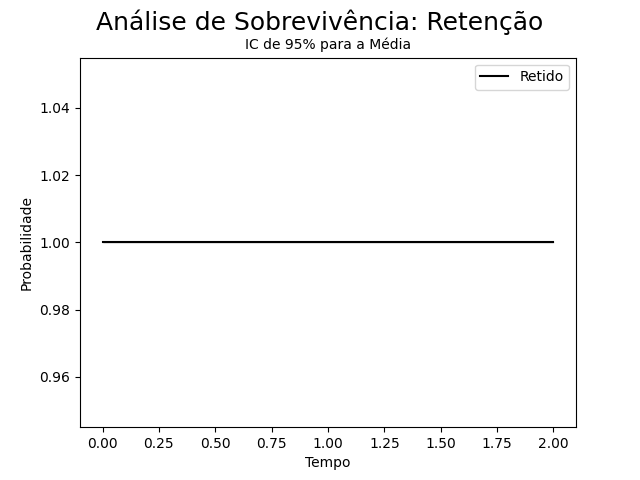
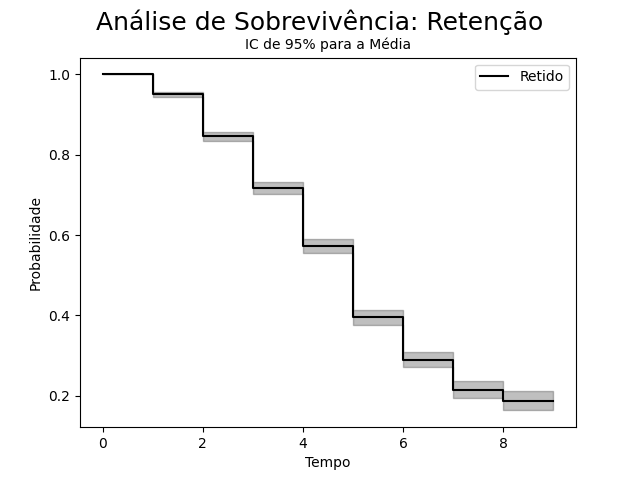
Testes

diff --git a/tests/simulationTest.py b/tests/simulationTest.py
@@ -4,7 +4,7 @@ from lifelines import KaplanMeierFitter
 from Student import Student
 
 
-def sobrevivencia(time, event_observed, label, title):
+def sobrevivencia(time, event_observed, label, color, title):
     kmf = KaplanMeierFitter()
 
     linestyles = ['-', '--', '-.', ':']
@@ -33,18 +33,16 @@ def Simu(quantAlunos, matriz):
     g = 0
     r = 0
     t = 0
-    time = []
-    event_g = []
-    event_e = []
     # anos = 12  # ou a.nb_state dentro do for
-    times = np.array([])
+    time = np.array([])
     tempo_ate_retido = []
     tempo_ate_trancado = []
     tempo_ate_evadido = []
     tempo_ate_graduado = []
+    event_observedE = np.array([])
+    event_observedG = np.array([])
     event_observedT = np.array([])
     event_observedR = np.array([])
-
 
     for i in range(quantAlunos):
         a = Student(i, matriz)
@@ -53,23 +51,23 @@ def Simu(quantAlunos, matriz):
         anos = a.nb_state
 
         tempo = np.arange(0, anos, 1)
-        times = np.concatenate((times, tempo))
+        time = np.concatenate((time, tempo))
 
+        estados = np.zeros((anos,), dtype=int)
         if 'E' in arr:
             e += 1  # quantidade para probabilidade
-            tempo_ate_evadido.append(len(arr) - 1)
-            time.append(len(arr) - 1)
-            event_e.append(1)
-        else:
-            event_e.append(0)
+            k = arr.index("E")
+            tempo_ate_evadido.append(k)
+            estados[k] = 1
+        event_observedE = np.concatenate((event_observedE, estados))
 
+        estados = np.zeros((anos,), dtype=int)
         if 'G' in arr:
             g += 1  # quantidade para probabilidade
-            tempo_ate_graduado.append(len(arr) - 1)
-            time.append(len(arr) - 1)
-            event_g.append(1)
-        else:
-            event_g.append(0)
+            k = arr.index("G")
+            tempo_ate_graduado.append(k)
+            estados[k] = 1
+        event_observedG = np.concatenate((event_observedG, estados))
 
         # Trancado
         estados = np.zeros((anos,), dtype=int)
@@ -112,7 +110,10 @@ def Simu(quantAlunos, matriz):
     prob_and_temp("Evadido", e, tempo_ate_evadido, quantAlunos)
     prob_and_temp("Graduado", g, tempo_ate_graduado, quantAlunos)
 
-    return time, times, event_e, event_g, event_observedR, event_observedT
+    # print(g)
+    # print(tempo_ate_graduado)
+
+    return time, event_observedE, event_observedG, event_observedR, event_observedT
 
 
 
@@ -121,46 +122,67 @@ quantAlunos = 1000
 
 # # Simulação por Gênero
 # print("\nFeminino")
-# timeF, timesF, event_observedEF, event_observedGF, event_observedRF, event_observedTF = Simu(quantAlunos, 'matrix/matrixF.csv')
+# timeF, event_observedEF, event_observedGF, event_observedRF, event_observedTF = Simu(quantAlunos, 'matrix/matrixF.csv')
 # print("\nMasculino - 25%")
-# timeM, timesM, event_observedEM, event_observedGM, event_observedRM, event_observedTM = Simu(quantAlunos, 'matrix/matrixM.csv')
-# print("\nMasculino - 50%")
-# timeM50, timesM50, event_observedEM50, event_observedGM50, event_observedRM50, event_observedTM50 = Simu(quantAlunos, 'matrix/matrixM50.csv')
+# timeM, event_observedEM, event_observedGM, event_observedRM, event_observedTM = Simu(quantAlunos, 'matrix/matrixM.csv')
+# # print("\nMasculino - 50%")
+# # timeM50, event_observedEM50, event_observedGM50, event_observedRM50, event_observedTM50 = Simu(quantAlunos, 'matrix/matrixM50.csv')
 #
-# times = [timeF, timeM, timeM50]
-# eventsE = [event_observedEF, event_observedEM, event_observedEM50]
-# eventsG = [event_observedGF, event_observedGM, event_observedGM50]
-# labels = ["Feminino", "Masculino - 25%", "Masculino - 50%"]
+# times = [timeF, timeM]
+# eventsE = [event_observedEF, event_observedEM]
+# eventsG = [event_observedGF, event_observedGM]
+# eventsR = [event_observedRF, event_observedRM]
+# eventsT = [event_observedTF, event_observedTM]
+# colors = ["red", "blue"]
+# labels = ["Feminino", "Masculino"]
 #
-# sobrevivencia(times, eventsE, labels, "Evasão")
-# sobrevivencia(times, eventsG, labels, "Graduação")
-
-
-
-# Simulação Evasão A1
-# time20, times, event_observed_e20, event_observed_g20, event_observedR, event_observedT = Simu(quantAlunos, 'matrix/matrixMenos20EvasaoA1.csv')
-# time40, times, event_observed_e40, event_observed_g40, event_observedR, event_observedT = Simu(quantAlunos, 'matrix/matrixMenos40EvasaoA1.csv')
-# time60, times, event_observed_e60, event_observed_g60, event_observedR, event_observedT = Simu(quantAlunos, 'matrix/matrixMenos60EvasaoA1.csv')
+# # times = [timeF, timeM, timeM50]
+# # eventsE = [event_observedEF, event_observedEM, event_observedEM50]
+# # eventsG = [event_observedGF, event_observedGM, event_observedGM50]
+# # eventsR = [event_observedRF, event_observedRM, event_observedRM50]
+# # eventsT = [event_observedTF, event_observedTM, event_observedTM50]
+# # colors = ["red", "blue", "green"]
+# # labels = ["Feminino", "Masculino - 25%", "Masculino - 50%"]
 #
 #
-# times = [time20, time40, time60]
-# eventsE = [event_observed_e20, event_observed_e40, event_observed_e60]
-# eventsG = [event_observed_g20, event_observed_g40, event_observed_g60]
-# labels = ["Menos 20%", "Menos 40%", "Menos 60%"]
-#
-# sobrevivencia(times, eventsE, labels, "Evasão")
-# sobrevivencia(times, eventsG, labels, "Graduação")
-
+# sobrevivencia(times, eventsR, labels, colors, "Retenção")
+# sobrevivencia(times, eventsT, labels, colors, "Trancado")
+# sobrevivencia(times, eventsE, labels, colors, "Evasão")
+# sobrevivencia(times, eventsG, labels, colors, "Graduação")
 
 
 # Simulação Geral
-# time, times, event_observedE, event_observedG, event_observedR, event_observedT = Simu(quantAlunos, 'matrix/matrixPadrao.csv')
+time, event_observedE, event_observedG, event_observedR, event_observedT = Simu(quantAlunos, 'matrix/matrixF.csv')
+
+sobrevivencia([time], [event_observedE], ['Evadido'], ["red"], "Evasão")
+sobrevivencia([time], [event_observedG], ['Graduado'], ["green"], "Graduação")
+sobrevivencia([time], [event_observedR], ['Retido'], ["orange"], "Retenção")
+sobrevivencia([time], [event_observedT], ['Trancado'], ["grey"], "Trancado")
+
+
+
+
+
+
+
+
+
+
+# Para depois
+# Teste quantidade de alunos por ano
+# list_alunos = []
+# list_quant_anos = []
+# quantAlunos = 10
 #
-# sobrevivencia([time], [event_observedE], ['Evadido'], "Evasão")
-# sobrevivencia([time], [event_observedG], ['Graduado'], "Graduação")
-# sobrevivencia([times], [event_observedR], ['Retido'], "Retenção")
-# sobrevivencia([times], [event_observedT], ['Trancado'], "Trancado")
-
-
-
-
+# for i in range(quantAlunos):
+#     a = Student(i, "matrix/matrixtest.csv")
+#     list_alunos.append(a)
+#
+#     for i in range(3):
+#         a.get_next_state()
+#         list_alunos.append()
+#
+#
+# print(list_quant_anos[0])
+# print(list_quant_anos[1])
+# print(list_quant_anos[2])

diff --git a/tests/testKMF.py b/tests/testKMF.py
@@ -1,44 +1,59 @@
 from lifelines.datasets import load_waltons
 from lifelines import KaplanMeierFitter
-df = load_waltons() # returns a Pandas DataFrame
-
 from matplotlib import pyplot as plt
 
-durations = [5,6,6,2.5,4,4]
-event_observed1 = [1, 0, 0, 1, 1, 1]
-event_observed2 = [0, 1, 0, 0, 1, 1]
-label='Kaplan Meier Estimate'
 
-print(df)
-"""
-    T  E    group
-0   6  1  miR-137
-1  13  1  miR-137
-2  13  1  miR-137
-3  13  1  miR-137
-4  19  1  miR-137
-"""
+times = [5, 6, 7, 2, 4, 4, 3, 6, 4, 7]
+event_g = [1, 1, 1, 0, 0, 0, 0, 1, 0, 1]
+event_e = [0, 0, 0, 1, 1, 1, 1, 0, 1, 0]
 
-T = df['T']
-E = df['E']
-#print(E)
+# durations = [5, 6, 7, 2, 4, 4, 3, 6, 4, 7, 4, 4]
+# event_g = [1, 1, 1, 0, 0, 0, 0, 1, 0, 1, 1, 1]
+# event_e = [0, 0, 0, 1, 1, 1, 1, 0, 1, 0, 0, 0]
+#
+# durations = [5, 6, 7, 2, 4, 4, 3, 6, 4, 7, 8, 10]
+# event_g = [1, 1, 1, 0, 0, 0, 0, 1, 0, 1, 1, 1]
+# event_e = [0, 0, 0, 1, 1, 1, 1, 0, 1, 0, 0, 0]
+#
+# durations = [5, 6, 7, 2, 4, 4, 3, 6, 4, 7, 8, 10]
+# event_g = [1, 1, 1, 0, 0, 0, 0, 1, 0, 1, 0, 0]
+# event_e = [0, 0, 0, 1, 1, 1, 1, 0, 1, 0, 1, 1]
+
 
 kmf = KaplanMeierFitter()
-kmf.fit(durations, event_observed1)
-kmf.plot_survival_function()
-kmf.fit(durations, event_observed2)
-kmf.plot_survival_function()
+kmf.fit(times, event_g)
+kmf.plot_survival_function(ci_show=False)
 plt.show()
+kmf.fit(times, event_e)
+kmf.plot_survival_function(ci_show=False)
+plt.show()
+kmf.plot_cumulative_density(ci_show=False)
+plt.show()
+
+
+
+
+
+
+
+
+# df = load_waltons()
+# print(df)
+
+# T = df['T']
+# E = df['E']
+# print(E)
+
 
 # kmf.plot_cumulative_density()
 # plt.show()
 
-#Colocar no print
-kmf.event_table
-kmf.predict([0,10])
-kmf.survival_function_
-kmf.cumulative_density_
-kmf.median_survival_time_
-kmf.confidence_interval_
-kmf.conditional_time_to_event_
+# Colocar no print
+# kmf.event_table
+# kmf.predict([0,10])
+# kmf.survival_function_
+# kmf.cumulative_density_
+# kmf.median_survival_time_
+# kmf.confidence_interval_
+# kmf.conditional_time_to_event_
 

diff --git a/generate_mc.py b/generate_mc.py
@@ -5,10 +5,10 @@ from markov_diagram import Diagram
 from pydtmc import MarkovChain, plot_graph, plot_walk
 
 # Alterar aqui parametros para gerar matriz
-nomeArquivo = "matrix/matrixtest.csv"
+nomeArquivo = "matrix/matrixPadrao.csv"
 taxaRetencao = 1.0
 taxaEvasao = 1.0
-taxaEvasaoA1 = 0.1
+taxaEvasaoA1 = 1.0
 taxaTrancar = 1.0
 taxaEvasaoR = 1.0
 taxaTrancarR = 1.0
@@ -120,12 +120,12 @@ p = [[A1T, A1toA2, 0.0, 0.0, 0.0, A1toA1R, 0.0, 0.0, 0.0, 0.0, 0.0, 0.0, 0.0, A1
      [0.0, 0.0, 0.0, 0.0, 0.0, 0.0, 0.0, 0.0, 0.0, 0.0, 0.0, 0.0, 0.0, 1.0]]
 
 
-# Simples para testes
-states = ['A1', 'A2', 'G', 'E']
-p = [[0.0, 0.7, 0.0, 0.3],
-     [0.0, 0.0, 0.8, 0.2],
-     [0.0, 0.0, 1.0, 0.0],
-     [0.0, 0.0, 0.0, 1.0]]
+# # Simples para testes
+# states = ['A1', 'A2', 'G', 'E']
+# p = [[0.0, 0.7, 0.0, 0.3],
+#      [0.0, 0.0, 0.8, 0.2],
+#      [0.0, 0.0, 1.0, 0.0],
+#      [0.0, 0.0, 0.0, 1.0]]
 
 
 
